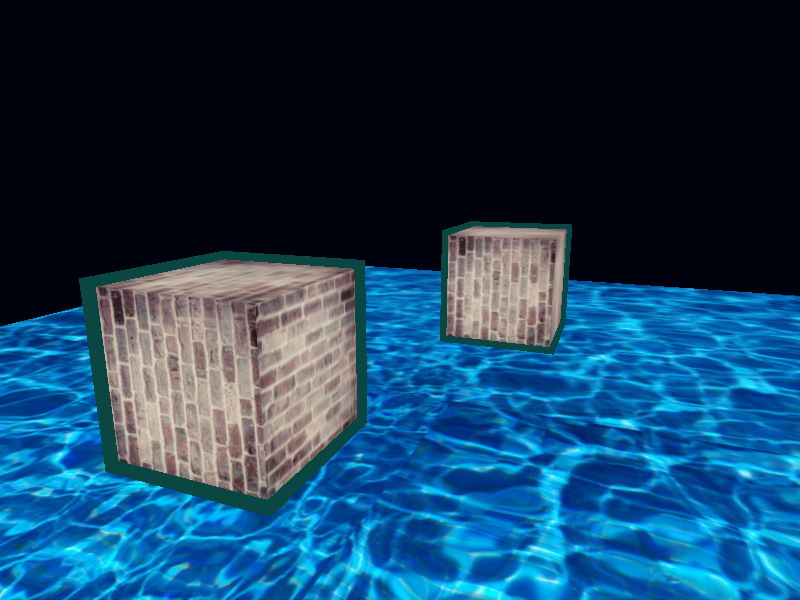
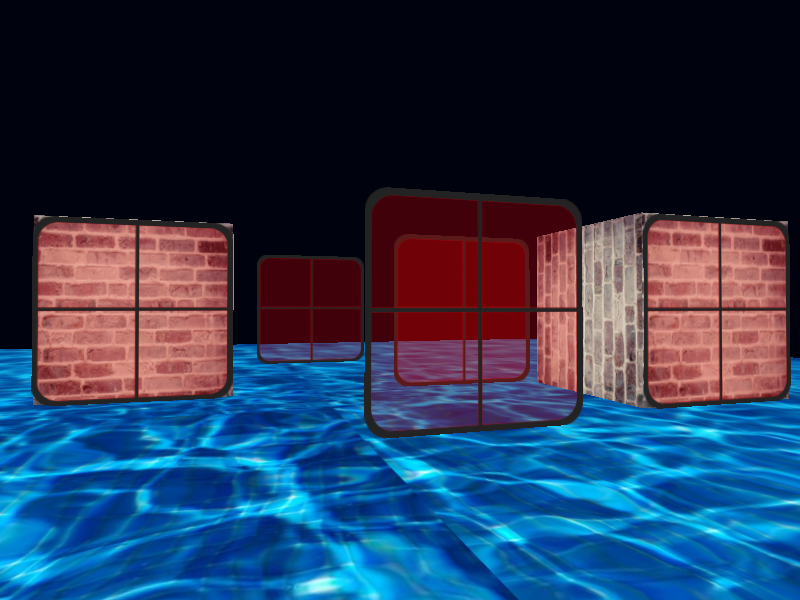
add blending

diff --git a/main.cpp b/main.cpp
@@ -2,6 +2,11 @@
 #include <GL/glew.h>
 #include <GLFW/glfw3.h>
 
+#include <stdio.h>
+#include <string>
+#include <vector>
+#include <map>
+
 #include <glm/glm.hpp>
 #include <glm/gtc/matrix_transform.hpp>
 #include <glm/gtc/type_ptr.hpp>
@@ -58,15 +63,12 @@ int main()
     // enable depth test
     glEnable(GL_DEPTH_TEST);
     glDepthFunc(GL_LESS);
-    // enable stencil test
-    glEnable(GL_STENCIL_TEST);
-    glStencilFunc(GL_NOTEQUAL, 1, 0xFF);
-    glStencilOp(GL_KEEP, GL_KEEP, GL_REPLACE);
-
+    // enable blend
+    glEnable(GL_BLEND);
+    glBlendFunc(GL_SRC_ALPHA, GL_ONE_MINUS_SRC_ALPHA);
 
     // load program
     Shader program = Shader("DemoVertex.glsl", "DemoFrag.glsl");
-    Shader simple = Shader("DemoVertex.glsl", "SimpleFrag.glsl");
 
     // Set the object data (buffers, vertex attributes)
     GLfloat cubeVertices[] = {
@@ -124,6 +126,24 @@ int main()
         -5.0f, -0.5f, -5.0f,  0.0f, 2.0f,
         5.0f,  -0.5f, -5.0f,  2.0f, 2.0f
     };
+
+    GLfloat transparentVertices[] = {
+        // Positions         // Texture Coords
+        0.0f,  0.5f,  0.0f,  0.0f,  0.0f,
+        0.0f, -0.5f,  0.0f,  0.0f,  1.0f,
+        1.0f, -0.5f,  0.0f,  1.0f,  1.0f,
+
+        0.0f,  0.5f,  0.0f,  0.0f,  0.0f,
+        1.0f, -0.5f,  0.0f,  1.0f,  1.0f,
+        1.0f,  0.5f,  0.0f,  1.0f,  0.0f
+    };
+
+    std::vector<glm::vec3> vegetation;
+    vegetation.push_back(glm::vec3(-1.5f, 0.0f, -0.48f));
+    vegetation.push_back(glm::vec3( 1.5f, 0.0f, 0.51f));
+    vegetation.push_back(glm::vec3( 0.0f, 0.0f, 0.7f));
+    vegetation.push_back(glm::vec3(-0.3f, 0.0f, -2.3f));
+    vegetation.push_back(glm::vec3( 0.5f, 0.0f, -0.6f));
     
     // set cube VAO
     GLuint cubeVAO, cubeVBO;
@@ -151,9 +171,23 @@ int main()
     glVertexAttribPointer(1, 2, GL_FLOAT, GL_FALSE, 5 * sizeof(GLfloat), (GLvoid*)(3 * sizeof(GLfloat)));
     glBindVertexArray(0);
 
+    // set grass VAO
+    GLuint transparentVAO, transparentVBO;
+    glGenVertexArrays(1, &transparentVAO);
+    glGenBuffers(1, &transparentVBO);
+    glBindVertexArray(transparentVAO);
+    glBindBuffer(GL_ARRAY_BUFFER, transparentVBO);
+    glBufferData(GL_ARRAY_BUFFER, sizeof(transparentVertices), &transparentVertices, GL_STATIC_DRAW);
+    glEnableVertexAttribArray(0);
+    glVertexAttribPointer(0, 3, GL_FLOAT, GL_FALSE, 5 * sizeof(GLfloat), (GLvoid*)0);
+    glEnableVertexAttribArray(1);
+    glVertexAttribPointer(1, 2, GL_FLOAT, GL_FALSE, 5 * sizeof(GLfloat), (GLvoid*)(3 * sizeof(GLfloat)));
+    glBindVertexArray(0);
+
     // load textures
-    GLuint cubeTexture = loadTextureFromFile("brick.jpg", "./Images");
-    GLuint planeTexture = loadTextureFromFile("water.jpg", "./Images");
+    GLuint cubeTexture = loadTextureFromFile("brick.jpg");
+    GLuint planeTexture = loadTextureFromFile("water.jpg");
+    GLuint transparentTexture = loadTextureFromFile("window.png", "./Images", true);
 
     // set object view
     glm::mat4 projection(1.0f);
@@ -169,31 +203,30 @@ int main()
         do_movement();
 
         glClearColor(0.0f, 0.01f, 0.05f, 1.0f);
-        glClear(GL_COLOR_BUFFER_BIT | GL_DEPTH_BUFFER_BIT | GL_STENCIL_BUFFER_BIT);
+        glClear(GL_COLOR_BUFFER_BIT | GL_DEPTH_BUFFER_BIT);
+
+        // sort window locations
+        std::map<GLfloat, glm::vec3> sorted;
+        for(GLuint i = 0; i < vegetation.size(); i++)
+        {
+            GLfloat distance = glm::length(camera.Position - vegetation[i]);
+            sorted[distance] = vegetation[i];
+        }
 
         // set uniforms
-        simple.Use();
+        program.Use();
         glm::mat4 model(1.0f);
         view = camera.GetViewMatrix();
         projection = glm::perspective(camera.Zoom, (GLfloat)WINDOW_WIDTH/(GLfloat)WINDOW_HEIGHT, 0.1f, 100.0f);
-        glUniformMatrix4fv(glGetUniformLocation(simple.programID, "projection"), 1, GL_FALSE, glm::value_ptr(projection));
-        glUniformMatrix4fv(glGetUniformLocation(simple.programID, "view"), 1, GL_FALSE, glm::value_ptr(view));
-        program.Use();
         glUniformMatrix4fv(glGetUniformLocation(program.programID, "projection"), 1, GL_FALSE, glm::value_ptr(projection));
         glUniformMatrix4fv(glGetUniformLocation(program.programID, "view"), 1, GL_FALSE, glm::value_ptr(view));
-        
         // draw plane
-        glStencilMask(0x00);
         glBindVertexArray(planeVAO);
         glBindTexture(GL_TEXTURE_2D, planeTexture);
         glUniformMatrix4fv(glGetUniformLocation(program.programID, "model"), 1, GL_FALSE, glm::value_ptr(model));
         glDrawArrays(GL_TRIANGLES, 0, 6);
         glBindVertexArray(0);
-        
         // draw cubes
-        // 1st draw object as normal
-        glStencilFunc(GL_ALWAYS, 1, 0xFF);
-        glStencilMask(0xFF);
         glBindVertexArray(cubeVAO);
         glBindTexture(GL_TEXTURE_2D, cubeTexture);
         model = glm::mat4(1.0f);
@@ -205,29 +238,17 @@ int main()
         glUniformMatrix4fv(glGetUniformLocation(program.programID, "model"), 1, GL_FALSE, glm::value_ptr(model));
         glDrawArrays(GL_TRIANGLES, 0, 36);
         glBindVertexArray(0);
-
-        // draw scaled version of the objects
-        glStencilFunc(GL_NOTEQUAL, 1, 0xFF);
-        glStencilMask(0x00);
-        glDisable(GL_DEPTH_TEST);
-        simple.Use();
-        GLfloat scale = 1.1f;
-        // cubes
-        glBindVertexArray(cubeVAO);
-        glBindTexture(GL_TEXTURE_2D, cubeTexture);
-        model = glm::mat4(1.0f);
-        model = glm::translate(model, glm::vec3(-1.0f, 0.005f, -1.0f));
-        model = glm::scale(model, glm::vec3(scale, scale, scale));
-        glUniformMatrix4fv(glGetUniformLocation(simple.programID, "model"), 1, GL_FALSE, glm::value_ptr(model));
-        glDrawArrays(GL_TRIANGLES, 0, 36);
-        model = glm::mat4(1.0f);
-        model = glm::translate(model, glm::vec3(2.0f, 0.005f, 0.0f));
-        model = glm::scale(model, glm::vec3(scale, scale, scale));
-        glUniformMatrix4fv(glGetUniformLocation(simple.programID, "model"), 1, GL_FALSE, glm::value_ptr(model));
-        glDrawArrays(GL_TRIANGLES, 0, 36);
+        // draw transparent part
+        glBindVertexArray(transparentVAO);
+        glBindTexture(GL_TEXTURE_2D, transparentTexture);
+        for(std::map<GLfloat, glm::vec3>::reverse_iterator it = sorted.rbegin(); it != sorted.rend(); it++)
+        {
+            model = glm::mat4(1.0f);
+            model = glm::translate(model, it->second);
+            glUniformMatrix4fv(glGetUniformLocation(program.programID, "model"), 1, GL_FALSE, glm::value_ptr(model));
+            glDrawArrays(GL_TRIANGLES, 0, 6);
+        }
         glBindVertexArray(0);
-        glStencilMask(0xFF);
-        glEnable(GL_DEPTH_TEST);
 
         glfwSwapBuffers(window);
     }

diff --git a/src/Model.cpp b/src/Model.cpp
@@ -127,13 +127,13 @@ std::vector<Texture> Model::loadMaterialTextures(aiMaterial* mat, aiTextureType 
     return textures;
 }
 
-GLuint loadTextureFromFile(const std::string filename, const std::string directory)
+GLuint loadTextureFromFile(const std::string filename, const std::string directory, GLboolean alpha)
 {
     GLuint textureID;
     glGenTextures(1, &textureID);
 
     int width, height;
-    unsigned char *image = SOIL_load_image(((directory + '/' + filename).c_str()), &width, &height, 0, SOIL_LOAD_RGB);
+    unsigned char *image = SOIL_load_image(((directory + '/' + filename).c_str()), &width, &height, 0, alpha ? SOIL_LOAD_RGBA : SOIL_LOAD_RGB);
     if(!image)
     {
         printf("Cannot load texture: %s!\n", filename.c_str());
@@ -143,10 +143,10 @@ GLuint loadTextureFromFile(const std::string filename, const std::string directo
     // configure texture
     glTexParameteri(GL_TEXTURE_2D, GL_TEXTURE_MIN_FILTER, GL_LINEAR_MIPMAP_LINEAR);
     glTexParameteri(GL_TEXTURE_2D, GL_TEXTURE_MAG_FILTER, GL_LINEAR);
-    glTexParameteri(GL_TEXTURE_2D, GL_TEXTURE_WRAP_S, GL_REPEAT);
-    glTexParameteri(GL_TEXTURE_2D, GL_TEXTURE_WRAP_T, GL_REPEAT);
+    glTexParameteri(GL_TEXTURE_2D, GL_TEXTURE_WRAP_S, alpha ? GL_CLAMP_TO_EDGE : GL_REPEAT);
+    glTexParameteri(GL_TEXTURE_2D, GL_TEXTURE_WRAP_T, alpha ? GL_CLAMP_TO_EDGE : GL_REPEAT);
     // end of configure texture
-    glTexImage2D(GL_TEXTURE_2D, 0, GL_RGB, width, height, 0, GL_RGB, GL_UNSIGNED_BYTE, image);
+    glTexImage2D(GL_TEXTURE_2D, 0, alpha ? GL_RGBA : GL_RGB, width, height, 0, alpha ? GL_RGBA : GL_RGB, GL_UNSIGNED_BYTE, image);
     glGenerateMipmap(GL_TEXTURE_2D);
     SOIL_free_image_data(image);
     glBindTexture(GL_TEXTURE_2D, 0);

diff --git a/include/Model.hpp b/include/Model.hpp
@@ -9,7 +9,7 @@
 #include "./Shader.hpp"
 #include "./Mesh.hpp"
 
-GLuint loadTextureFromFile(const std::string filename, const std::string directory);
+GLuint loadTextureFromFile(const std::string filename, const std::string directory = "./Images", GLboolean alpha = false);
 
 class Model
 {
